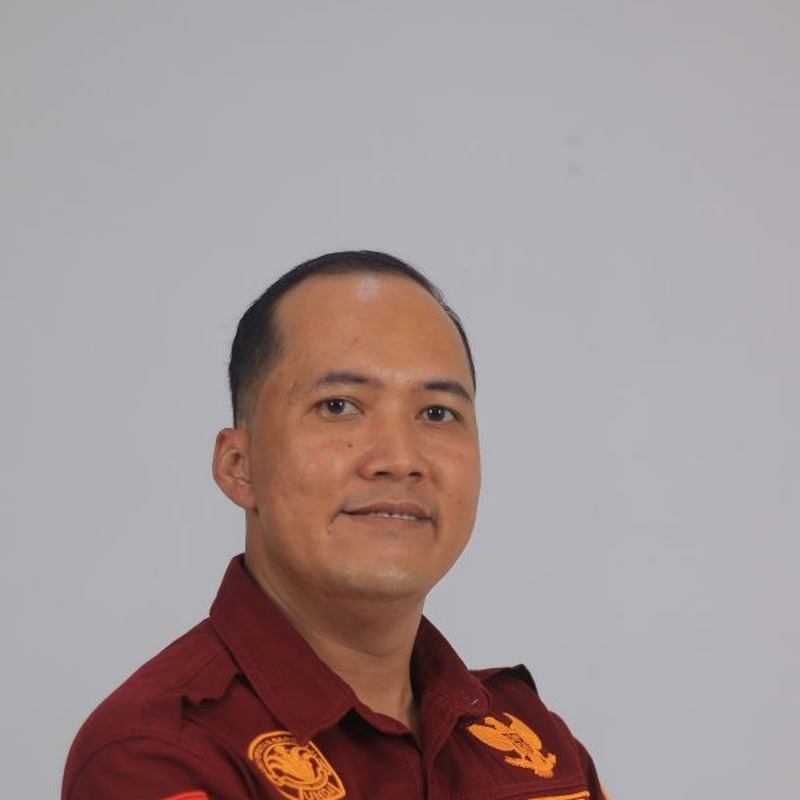
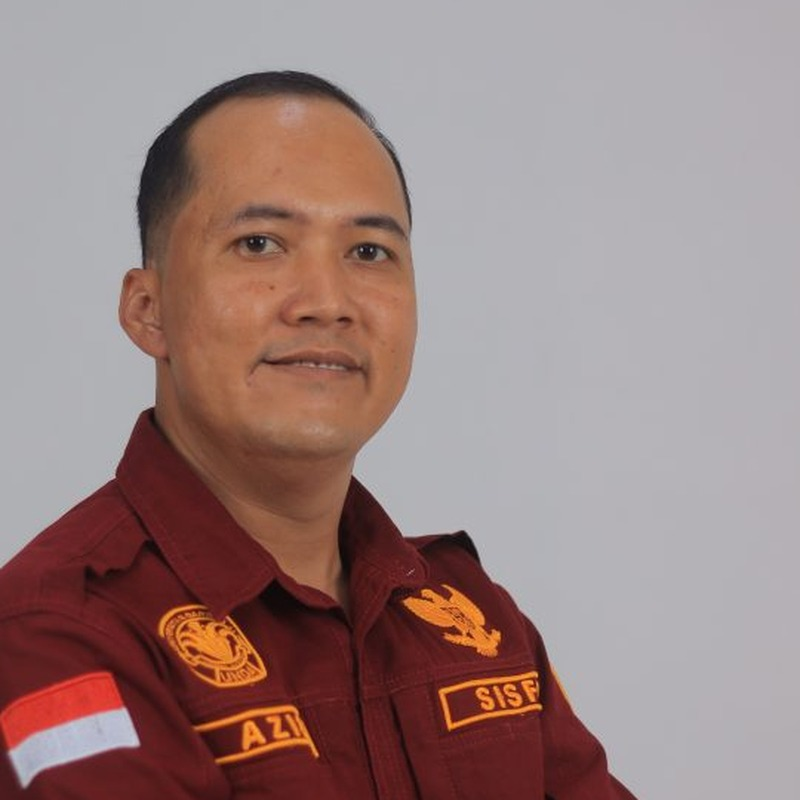
feat(prodi): integrasi pkm, foto asdos prio, perbaikan simetri foto Dr. Dwi & Pak Aziz, struktur organisasi baru, dan rebranding nama Sistem Informasi

diff --git a/src/i18n/ui.ts b/src/i18n/ui.ts
@@ -39,7 +39,7 @@ export const ui = {
     'cta.official_web': 'Website Staf Personal',
 
     // Institution Branding
-    'inst.name': 'Program Studi S1 Sistem Informasi',
+    'inst.name': 'Program Studi Sistem Informasi',
     'inst.faculty': 'Fakultas Ilmu Komputer',
     'inst.univ': 'Universitas Darwan Ali',
     'inst.accreditation': 'Akreditasi: Baik Sekali',
@@ -51,7 +51,7 @@ export const ui = {
     'search.close': 'Tutup',
 
     // Footer
-    'footer.about': 'Program Studi S1 Sistem Informasi FIK Universitas Darwan Ali menyelenggarakan pendidikan tinggi berbasis Outcome-Based Education (OBE) untuk menghasilkan lulusan yang kompeten di era transformasi digital.',
+    'footer.about': 'Program Studi Sistem Informasi FIK Universitas Darwan Ali menyelenggarakan pendidikan tinggi berbasis Outcome-Based Education (OBE) untuk menghasilkan lulusan yang kompeten di era transformasi digital.',
     'footer.address': 'Alamat Kampus',
     'footer.quick_links': 'Tautan Cepat',
     'footer.academic_systems': 'Layanan Akademik',

diff --git a/tasks/todo.md b/tasks/todo.md
@@ -1,0 +1,44 @@
+# Rencana Kerja: Pembaruan Komprehensif Website Prodi SI
+
+- **Workspace**: `~/projects/website-prodi-si`
+- **SOP Live Preview**: Berjalan aktif di sesi tmux `dev-prodi` (`http://localhost:4321/`)
+- **Kebijakan Git**: Commit lokal bertahap, **DILARANG KERAS `git push` otomatis** (Dipatuhi 100%).
+
+---
+
+### Fase 13: Standardisasi Simetri Foto Civitas, Format Foto Asdos, Web Profile Dr. Dwi & Dropdown Civitas
+- [x] 13.1 Tambahkan Web Profile Dr. Dwi Wahyu Prabowo (`https://bowo.staff.unda.ac.id/`) pada data `civitas.json` dan tampilkan di halaman detail dosen (`/civitas/dosen/[slug]/` dan `/en/faculty/[slug]/`) pada header dan kartu tautan riset resmi.
+- [x] 13.2 Ubah label menu dropdown Civitas di `navigation.json` dari "Direktori Dosen Tetap" menjadi "Direktori Dosen".
+- [x] 13.3 Standardisasi Simetri & Proporsi Wajah Foto Dosen:
+  - Eksekusi crop 1:1 persegi terpusat (*face-centered 800x800 Lanczos*) untuk seluruh foto dosen (`bowo.jpg`, `eka.jpg`, `nurahman.jpg`, `aziz.jpg`, `elika.jpg`, `lukman.jpg`, `serika.jpg`, `agung.jpg`, `deny.jpg`, `dwika.jpg`, `selviana.jpg`) guna mengeliminasi ketimpangan headroom dan pergeseran sumbu wajah.
+  - Perbarui CSS `object-position: center` pada antarmuka civitas.
+- [x] 13.4 Penyelarasan Format Foto Asisten Dosen (Asdos):
+  - Terapkan format kartu foto yang identik dengan dosen (`w-24 h-24 sm:w-28 sm:h-28 rounded-2xl border-2 border-gold-500/80 shadow-md overflow-hidden bg-navy-950 flex items-center justify-center shrink-0`) di seksi Asdos (`civitas/index.astro` dan `en/faculty/index.astro`).
+  - Eksekusi crop 1:1 persegi terpusat untuk foto asdos (`dody.jpg`, `fauzan.jpg`).
+  - Perbesar avatar pada halaman detail asdos (`/civitas/asdos/[slug]/`).
+- [x] 13.5 Kompilasi SSG (`npm run build` lulus 100%, 0 error), verifikasi via browser CDP, dan commit git lokal: `[main 9cdd352]`.
+
+---
+
+### Fase 14: Simetri Foto Lanjutan, Integrasi PkM, Struktur Organisasi & Rebranding "Sistem Informasi"
+- [ ] 14.1 Penyesuaian Foto Dr. Dwi (Geser ke Kanan) & Foto Pak Aziz (Naikkan Sumbu Wajah):
+  - `bowo.jpg`: geser crop window agar subjek bergeser ke kanan simetris di tengah bingkai.
+  - `aziz.jpg`: potong headroom berlebih (mulai y=170) dan pusatkan sumbu kepala di x=390 agar wajah naik proporsional.
+- [ ] 14.2 Integrasi Foto Asdos Prio Jaka Arsyad (`prio.jpg`):
+  - Ambil dari `/Works - UNDA/Web-Sisfo-UNDA/public/prio.jpg`, crop 1:1 persegi (800x800 Lanczos), simpan ke `public/images/dosen/prio.jpg`.
+  - Hubungkan ke `src/data/civitas.json` pada properti `image` Prio.
+- [ ] 14.3 Pembaruan Struktur Organisasi Prodi (`profil/index.astro` & `en/about/index.astro`):
+  - Dekan & Ketua Program Studi: Dr. Dwi Wahyu Prabowo, S.Si., M.Eng.
+  - Sekretaris Program Studi: Eka Prasetyaningrum, S.Kom., M.M.
+  - Pengelola MBKM: Elika Thea Kirana, S.T., M.Kom.
+  - Gugus Kendali Mutu: Nurahman, S.Kom., M.M., M.Kom.
+  - Koordinator Kemahasiswaan & Alumni: Abdul Aziz, S.Pd., M.Pd.
+  - Kepala Laboratorium: Agung Purwanto, S.Kom., M.Kom.
+  - Koordinator Sarana & Prasarana: Prio Jaka Arsyad, S.Kom.
+- [ ] 14.4 Integrasi Halaman Pengabdian kepada Masyarakat (PkM):
+  - Buat halaman `src/pages/riset/pengabdian/index.astro` dan `src/pages/en/research/community-service/index.astro`.
+  - Masukkan ke menu dropdown Riset di `navigation.json` dan Footer.
+  - Sajikan 5 pilar program PkM dosen berbasis riset terapan bagi UMKM, sekolah, desa cerdas, dan ASN daerah.
+- [ ] 14.5 Rebranding Frasa Nama Prodi:
+  - Ubah seluruh frasa "S1 Sistem Informasi" menjadi "Sistem Informasi" saja (Header, Drawer, Footer, BaseLayout, judul halaman, dan metadata).
+- [ ] 14.6 Kompilasi SSG (`npm run build`), verifikasi visual via browser CDP, dan commit git lokal.
